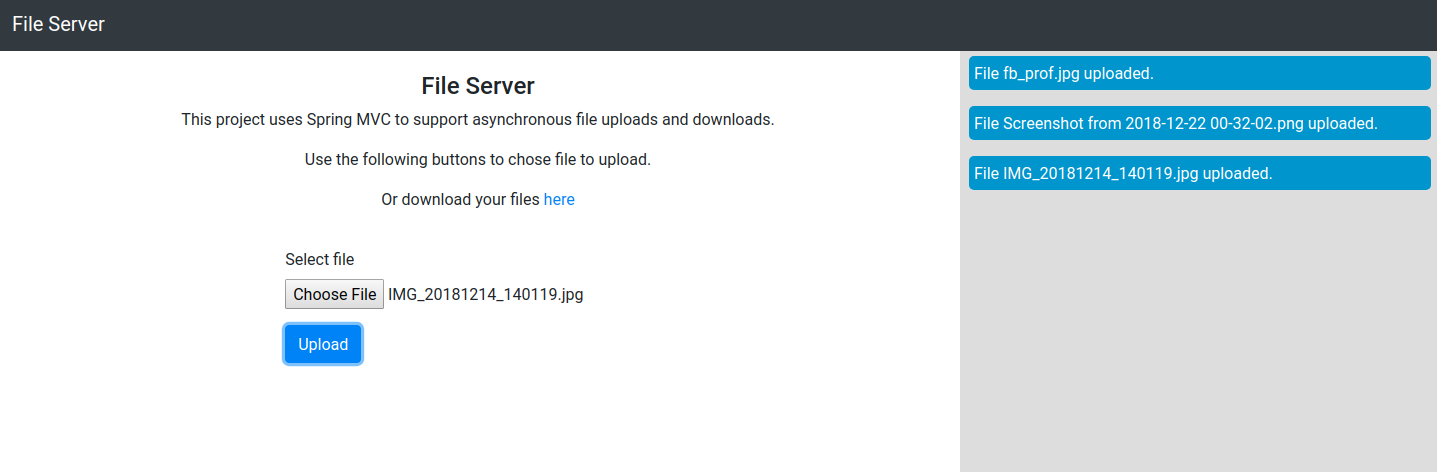
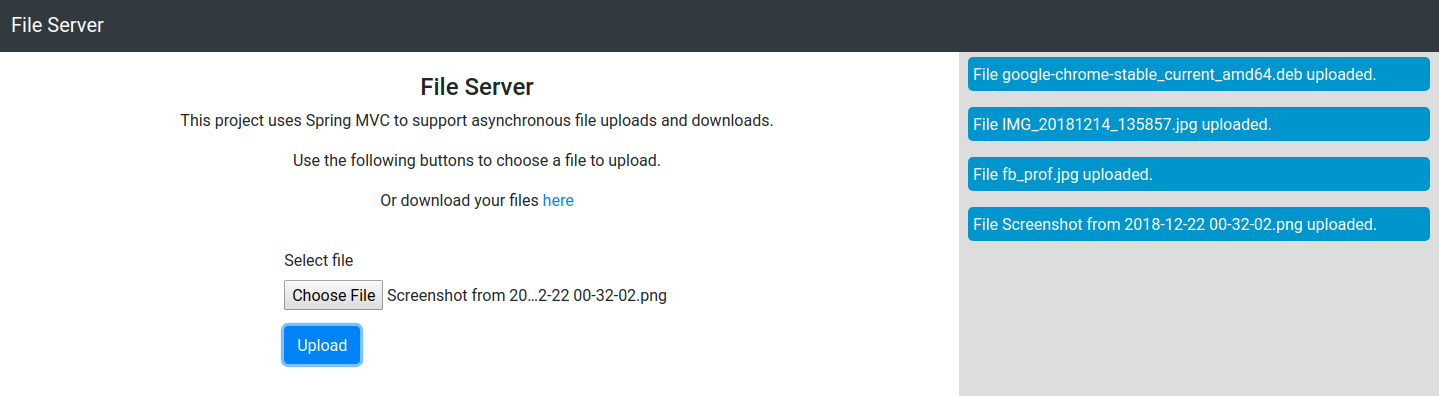
Screenshot reupload

diff --git a/src/main/resources/templates/home.html b/src/main/resources/templates/home.html
@@ -15,7 +15,7 @@
             <div class="centered-text">
                 <h4>File Server</h4>
                 <p>This project uses Spring MVC to support asynchronous file uploads and downloads.</p>
-                <p>Use the following buttons to chose file to upload.</p>
+                <p>Use the following buttons to choose a file to upload.</p>
                 <p>Or download your files <a href="/downloads">here</a></p>
             </div>
             <form method="POST" enctype="multipart/form-data" id="uploadForm">
